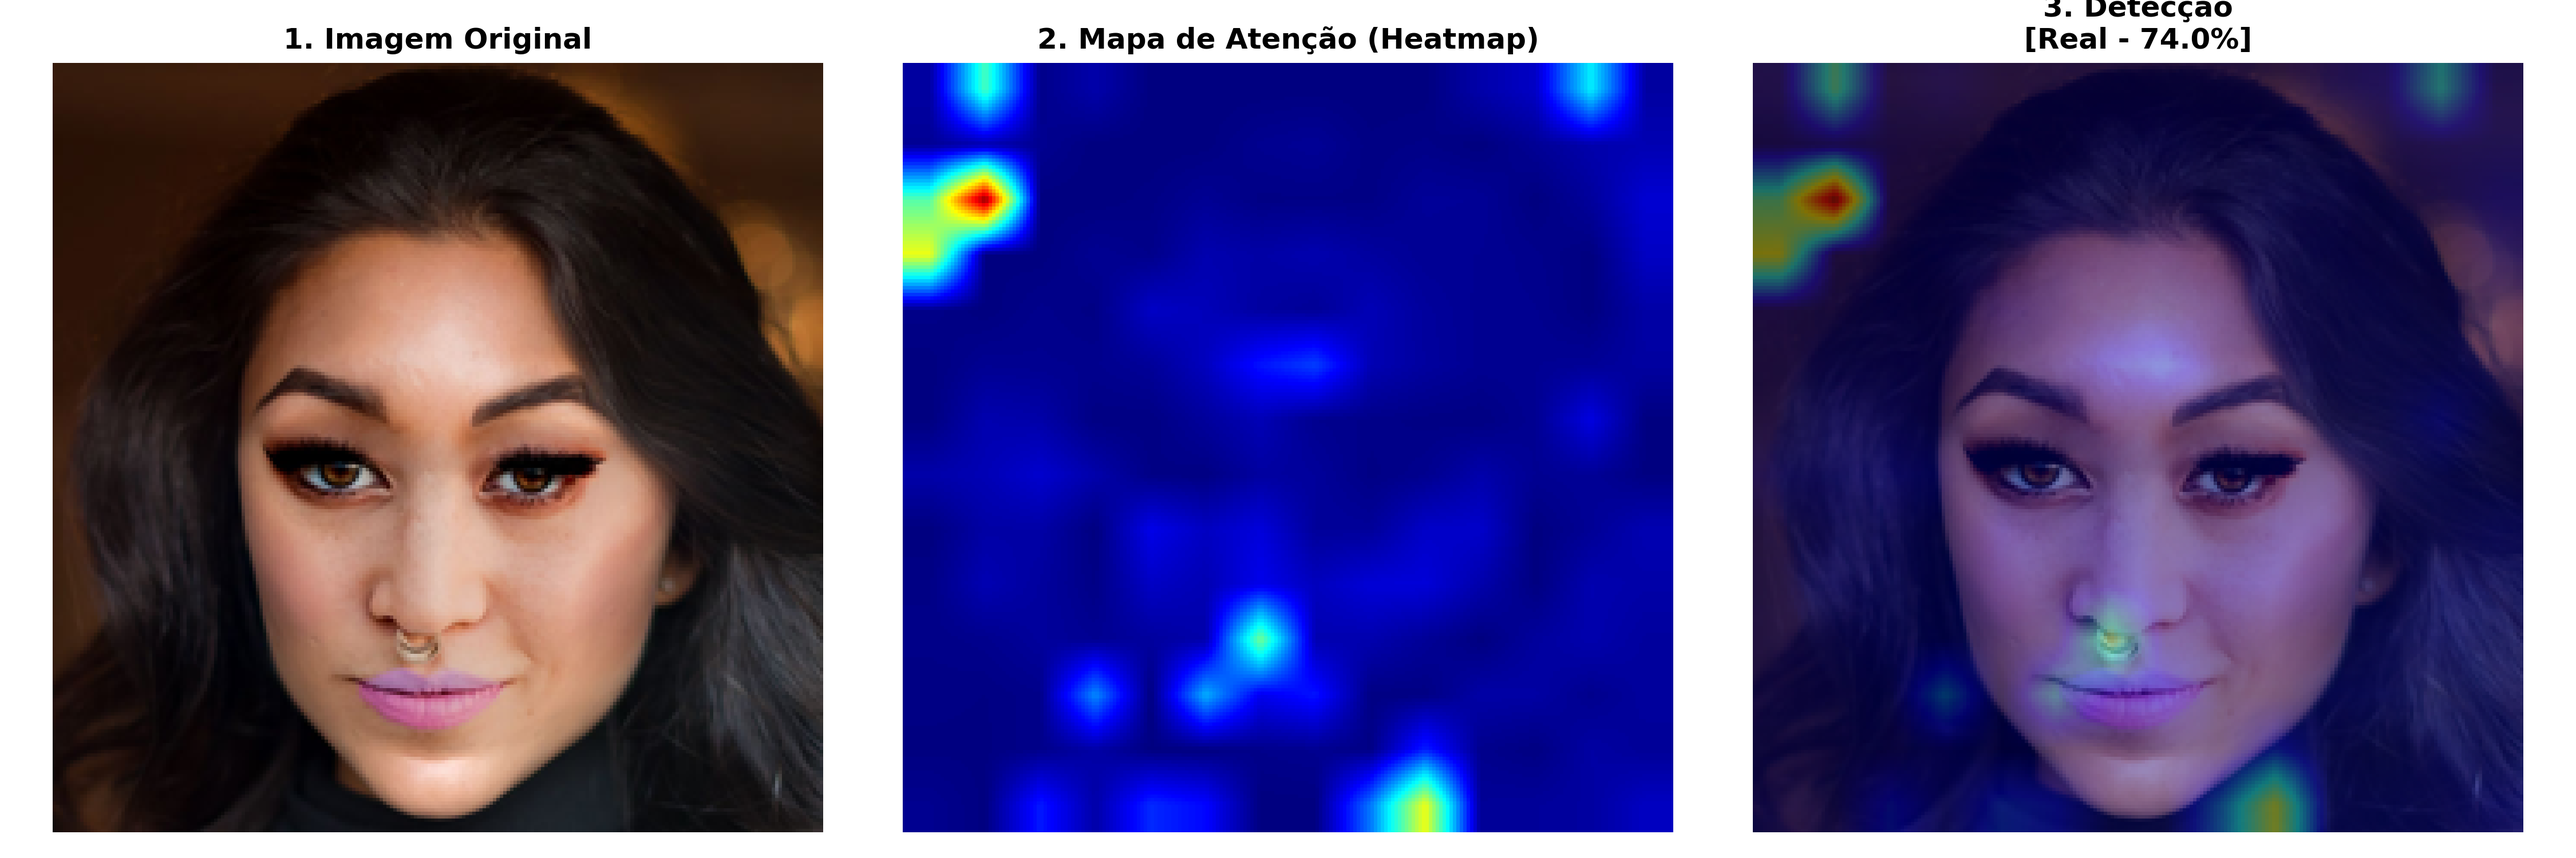
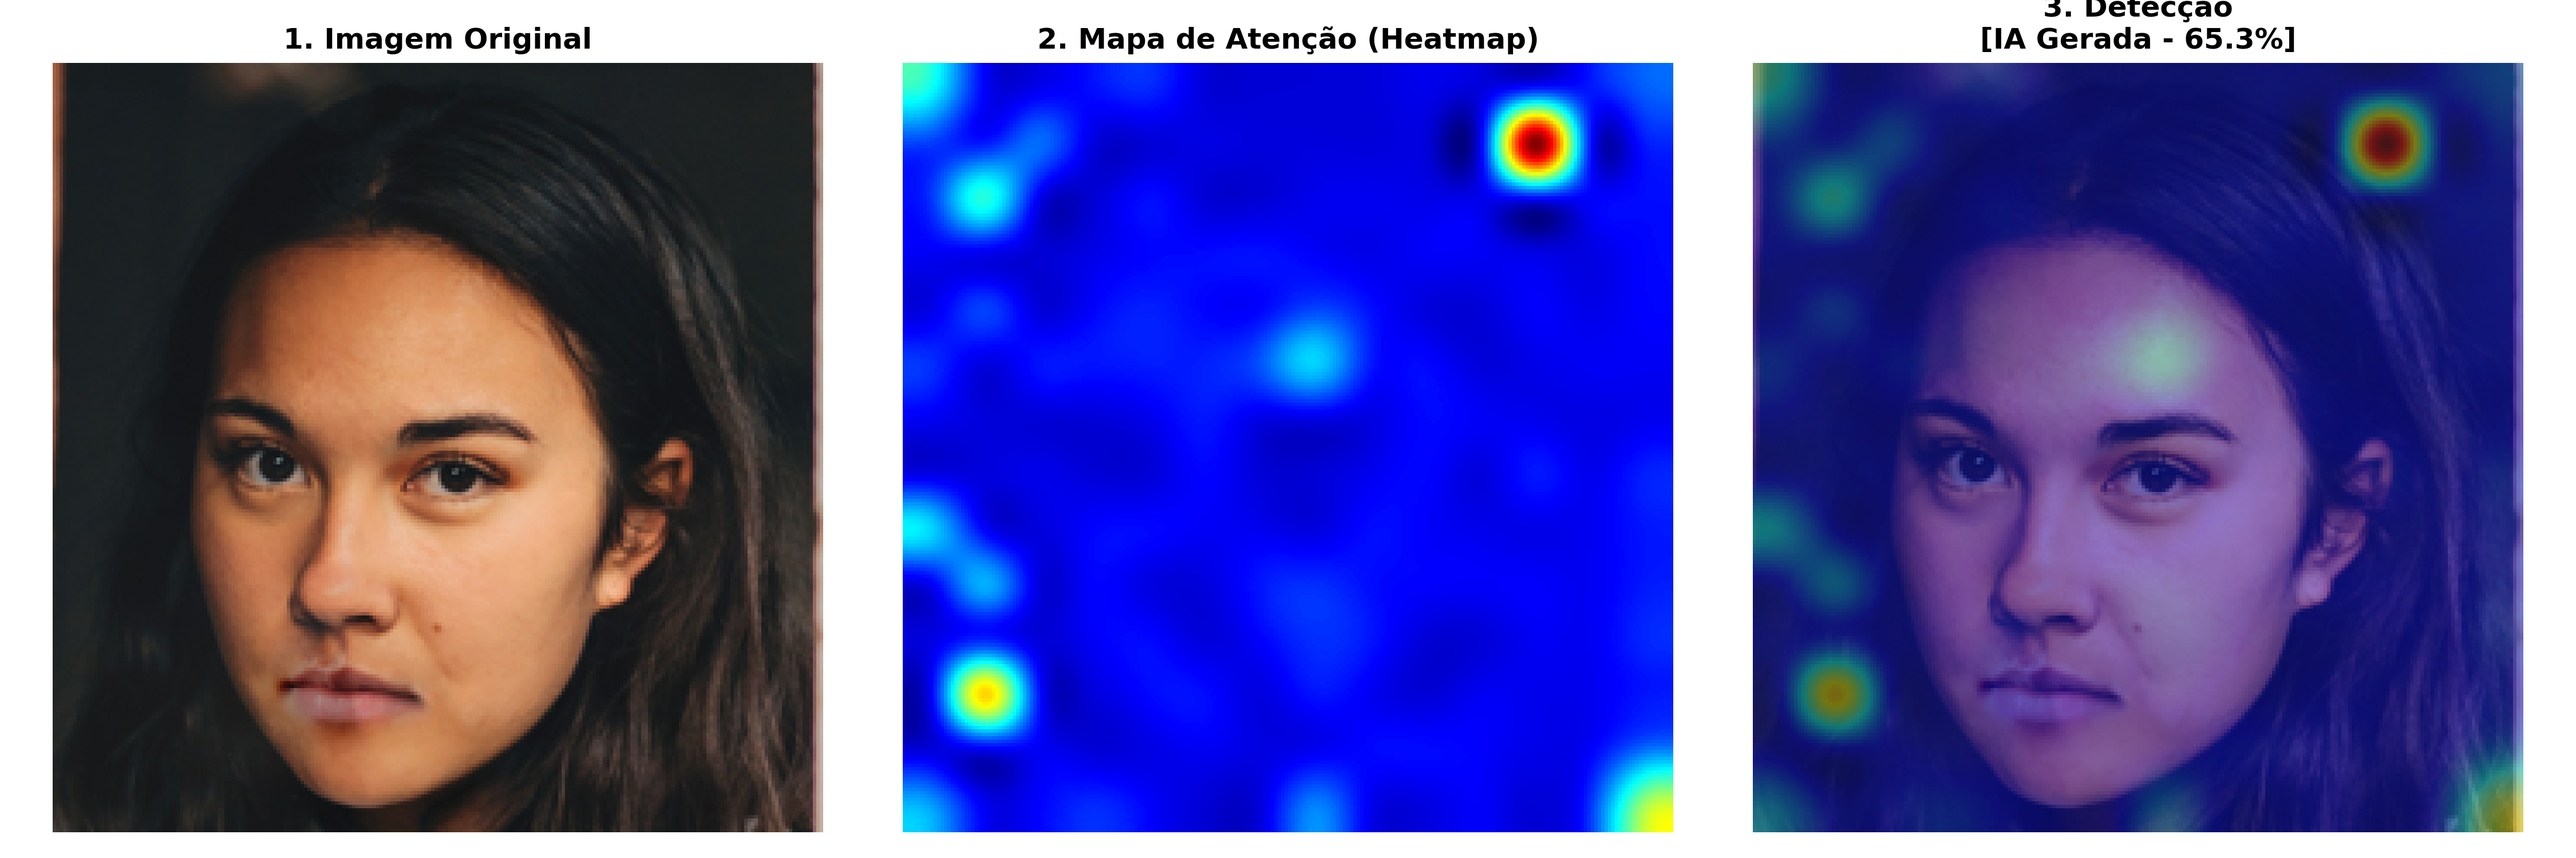
Mais atts

diff --git a/models/denseNet121.py b/models/denseNet121.py
@@ -7,20 +7,19 @@ from sklearn.metrics import f1_score, precision_score, recall_score
 import matplotlib.pyplot as plt 
 import os
 
-
 # ==========================================
 # 0. AJEITANDO O PATH DO DATASET
 # ==========================================
 BASE_DIR = os.path.dirname(os.path.abspath(__file__))
-DATASET_PATH = os.path.join(BASE_DIR, '../dataset')  # Pasta com subpastas por classe
+DATASET_PATH = os.path.join(BASE_DIR, '../dataset')
 
 # ==========================================
 # 1. CONFIGURAÇÕES E HIPERPARAMETROS
 # ==========================================
 BATCH_SIZE = 32
-LEARNING_RATE = 0.0001
-EPOCHS = 100
-NUM_CLASSES = 2  # Altere para o seu número de categorias
+LEARNING_RATE = 1e-4
+EPOCHS = 30  # Com transfer learning, geralmente convergem mais rápido
+NUM_CLASSES = 2
 DEVICE = torch.device("cuda" if torch.cuda.is_available() else "cpu")
 
 print(f"Executando em: {DEVICE}")
@@ -28,12 +27,12 @@ print(f"Executando em: {DEVICE}")
 # ==========================================
 # 2. PREPARAÇÃO DOS DADOS (DATA AUGMENTATION)
 # ==========================================
-# Como você vai treinar do zero, o Augmentation é vital para evitar overfitting
 data_transforms = {
     'train': transforms.Compose([
         transforms.Resize((224, 224)),
         transforms.RandomHorizontalFlip(),
         transforms.RandomRotation(15),
+        transforms.ColorJitter(brightness=0.2, contrast=0.2),
         transforms.ToTensor(),
         transforms.Normalize([0.485, 0.456, 0.406], [0.229, 0.224, 0.225])
     ]),
@@ -44,26 +43,32 @@ data_transforms = {
     ]),
 }
 
-# Carregando os datasets
-# Espera-se que dentro de DATASET_PATH existam as pastas 'train' e 'test'
 image_datasets = {x: datasets.ImageFolder(os.path.join(DATASET_PATH, x), data_transforms[x])
                   for x in ['train', 'test']}
 
-dataloaders = {x: DataLoader(image_datasets[x], batch_size=BATCH_SIZE, shuffle=True, num_workers=4)
+dataloaders = {x: DataLoader(image_datasets[x], batch_size=BATCH_SIZE, shuffle=True, num_workers=2)
               for x in ['train', 'test']}
 
 dataset_sizes = {x: len(image_datasets[x]) for x in ['train', 'test']}
 
 # ==========================================
-# 3. DEFINIÇÃO DA DENSENET-121 DO ZERO
+# 3. DEFINIÇÃO DA DENSENET-121 COM TRANSFER LEARNING
 # ==========================================
 def build_model(num_classes):
-    # weights=None garante que não usaremos o modelo pré-treinado
+    # Carregando pesos oficiais pré-treinados do ImageNet
     model = models.densenet121(weights=models.DenseNet121_Weights.DEFAULT)
     
-    # Ajustando a última camada (classifier)
+    # CONGELAR AS CAMADAS DE EXTRAÇÃO DE CARACTERÍSTICAS
+    # Isso impede que os pesos pré-treinados sejam destruídos no início com poucos dados
+    for param in model.parameters():
+        param.requires_grad = False
+        
+    # Ajustando a última camada (classifier) permitindo gradiente apenas nela
     num_ftrs = model.classifier.in_features
-    model.classifier = nn.Linear(num_ftrs, num_classes)
+    model.classifier = nn.Sequential(
+        nn.Dropout(p=0.5), # Dropout adicionado para evitar overfitting
+        nn.Linear(num_ftrs, num_classes)
+    )
     
     return model.to(DEVICE)
 
@@ -73,13 +78,14 @@ model = build_model(NUM_CLASSES)
 # 4. FUNÇÃO DE PERDA E OTIMIZADOR
 # ==========================================
 criterion = nn.CrossEntropyLoss()
-optimizer = optim.Adam(model.parameters(), lr=LEARNING_RATE)
+
+# Otimizamos apenas os parâmetros da camada classificadora final
+optimizer = optim.Adam(model.classifier.parameters(), lr=LEARNING_RATE)
 
 # ==========================================
-# 5. LOOP DE TREINAMENTO (COM F1, PRECISION E RECALL)
+# 5. LOOP DE TREINAMENTO
 # ==========================================
 def train_model(model, criterion, optimizer, num_epochs=25):
-    # Dicionário expandido para guardar todas as métricas
     history = {
         'train_loss': [], 'test_loss': [], 
         'train_acc': [], 'test_acc': [],
@@ -87,6 +93,8 @@ def train_model(model, criterion, optimizer, num_epochs=25):
         'train_prec': [], 'test_prec': [],
         'train_rec': [], 'test_rec': []
     }
+
+    best_acc = 0.0
 
     for epoch in range(num_epochs):
         print(f'\nÉpoca {epoch + 1}/{num_epochs}')
@@ -101,7 +109,6 @@ def train_model(model, criterion, optimizer, num_epochs=25):
             running_loss = 0.0
             running_corrects = 0
             
-            # Listas para guardar as previsões e gabaritos da época inteira
             all_preds = []
             all_labels = []
 
@@ -123,22 +130,18 @@ def train_model(model, criterion, optimizer, num_epochs=25):
                 running_loss += loss.item() * inputs.size(0)
                 running_corrects += torch.sum(preds == labels.data)
                 
-                # Salvando os resultados para o scikit-learn (movendo para CPU)
                 all_preds.extend(preds.cpu().numpy())
                 all_labels.extend(labels.cpu().numpy())
 
-            # Cálculos das métricas
             epoch_loss = running_loss / dataset_sizes[phase]
             epoch_acc = (running_corrects.double() / dataset_sizes[phase]).item()
             
-            # Calculando F1, Precision e Recall (usando macro para balancear as classes)
             epoch_f1 = f1_score(all_labels, all_preds, average='macro', zero_division=0)
             epoch_prec = precision_score(all_labels, all_preds, average='macro', zero_division=0)
             epoch_rec = recall_score(all_labels, all_preds, average='macro', zero_division=0)
 
             print(f'{phase.capitalize()} Loss: {epoch_loss:.4f} Acc: {epoch_acc:.4f} | F1: {epoch_f1:.4f} | Prec: {epoch_prec:.4f} | Rec: {epoch_rec:.4f}')
 
-            # Alimentando o histórico
             prefix = 'train_' if phase == 'train' else 'test_'
             history[f'{prefix}loss'].append(epoch_loss)
             history[f'{prefix}acc'].append(epoch_acc)
@@ -149,67 +152,11 @@ def train_model(model, criterion, optimizer, num_epochs=25):
     return model, history
 
 # ==========================================
-# 6. PAINEL DE GRÁFICOS COMPLETO
+# 6. EXECUÇÃO
 # ==========================================
-def plot_history(history):
-    epochs = range(1, len(history['train_loss']) + 1)
-    
-    # Criando um painel 2x2 para acomodar 4 gráficos
-    plt.figure(figsize=(16, 10))
-    
-    # Gráfico 1: Loss
-    plt.subplot(2, 2, 1)
-    plt.plot(epochs, history['train_loss'], label='Treino', marker='o', color='blue')
-    plt.plot(epochs, history['test_loss'], label='Teste', marker='o', color='red')
-    plt.title('Evolução da Perda (Loss)')
-    plt.xlabel('Épocas')
-    plt.ylabel('Loss')
-    plt.legend()
-    plt.grid(True, linestyle='--', alpha=0.7)
-    
-    # Gráfico 2: Acurácia
-    plt.subplot(2, 2, 2)
-    plt.plot(epochs, history['train_acc'], label='Treino', marker='o', color='blue')
-    plt.plot(epochs, history['test_acc'], label='Teste', marker='o', color='red')
-    plt.title('Evolução da Acurácia')
-    plt.xlabel('Épocas')
-    plt.ylabel('Acurácia')
-    plt.legend()
-    plt.grid(True, linestyle='--', alpha=0.7)
-    
-    # Gráfico 3: F1-Score
-    plt.subplot(2, 2, 3)
-    plt.plot(epochs, history['train_f1'], label='Treino', marker='o', color='blue')
-    plt.plot(epochs, history['test_f1'], label='Teste', marker='o', color='red')
-    plt.title('Evolução do F1-Score (Macro)')
-    plt.xlabel('Épocas')
-    plt.ylabel('F1-Score')
-    plt.legend()
-    plt.grid(True, linestyle='--', alpha=0.7)
-    
-    # Gráfico 4: Precisão e Recall (Apenas de Teste para não poluir)
-    plt.subplot(2, 2, 4)
-    plt.plot(epochs, history['test_prec'], label='Precisão (Teste)', marker='s', color='purple')
-    plt.plot(epochs, history['test_rec'], label='Recall (Teste)', marker='^', color='orange')
-    plt.title('Precisão vs Recall (Validação)')
-    plt.xlabel('Épocas')
-    plt.ylabel('Métrica')
-    plt.legend()
-    plt.grid(True, linestyle='--', alpha=0.7)
-    
-    plt.tight_layout()
-    plt.savefig('grafico_treinamento_completo_denseNet121.png', dpi=300)
-    print("\nGráfico detalhado salvo como 'grafico_treinamento_densenet121.png'!")
-    plt.show()
-
-# Iniciar o treino
 if __name__ == '__main__':
-    # Agora a função retorna o modelo e o histórico
     model_trained, training_history = train_model(model, criterion, optimizer, num_epochs=EPOCHS)
     
-    # Salvar o modelo final
+    # Salvar o novo modelo treinado com transfer learning
     torch.save(model_trained.state_dict(), 'densenet121_custom.pth')
-    print("Modelo salvo com sucesso!")
-    
-    # Gerar e exibir os gráficos
-    plot_history(training_history)
+    print("Novo modelo com Transfer Learning salvo com sucesso como 'densenet121_custom.pth'!")

diff --git a/models/geradorImagemDense.py b/models/geradorImagemDense.py
@@ -1,0 +1,153 @@
+import torch
+import torch.nn as nn
+from torchvision import transforms, models
+from PIL import Image
+import matplotlib.pyplot as plt
+import numpy as np
+import cv2
+import os
+
+# ==========================================
+# CONFIGURAÇÕES BÁSICAS
+# ==========================================
+DEVICE = torch.device("cuda" if torch.cuda.is_available() else "cpu")
+CLASS_NAMES = ['Real', 'IA Gerada']  # Ordem exata das classes no seu DatasetFolder
+MODEL_PATH = 'densenet121_custom.pth'
+NUM_CLASSES = 2
+
+# Variáveis globais para capturar ativações e gradientes do Grad-CAM
+activated_features = None
+gradients = None
+
+def save_activation(module, input, output):
+    """Hook para capturar a saída da última camada convolucional interna."""
+    global activated_features
+    activated_features = output.detach()
+
+def save_gradient(module, grad_input, grad_output):
+    """Hook para capturar os gradientes da última camada convolucional interna."""
+    global gradients
+    gradients = grad_output[0].detach()
+
+def get_densenet_model_with_hooks(num_classes):
+    """Carrega a DenseNet-121 com a estrutura de Transfer Learning e Dropout."""
+    model = models.densenet121(weights=None)
+    
+    
+    # CORREÇÃO: Usar a mesma estrutura com Dropout usada no novo treinamento
+    num_ftrs = model.classifier.in_features
+    model.classifier = nn.Sequential(
+        nn.Dropout(p=0.5),
+        nn.Linear(num_ftrs, num_classes)
+    )
+    
+    if os.path.exists(MODEL_PATH):
+        model.load_state_dict(torch.load(MODEL_PATH, map_location=DEVICE))
+        print(f"Modelo carregado com sucesso de '{MODEL_PATH}'.")
+    else:
+        print(f"Aviso: Arquivo '{MODEL_PATH}' não encontrado.")
+        
+    model.to(DEVICE)
+    model.eval()
+    
+    # Ponto de Hook para o Grad-CAM
+    target_layer = model.features.denseblock4.denselayer16
+    target_layer.register_forward_hook(save_activation)
+    target_layer.register_full_backward_hook(save_gradient)
+    
+    return model
+
+def generate_gradcam(image_path, model):
+    """Executa a inferência e calcula o mapa de calor Grad-CAM sem avisos de backward."""
+    global activated_features, gradients
+    
+    transform = transforms.Compose([
+        transforms.Resize((224, 224)),
+        transforms.ToTensor(),
+        transforms.Normalize([0.485, 0.456, 0.406], [0.229, 0.224, 0.225])
+    ])
+
+    image_pil = Image.open(image_path).convert('RGB')
+    input_tensor = transform(image_pil).unsqueeze(0).to(DEVICE)
+    
+    # CORREÇÃO DO WARNING: Forçar o tensor de entrada a exigir gradientes
+    input_tensor.requires_grad_(True)
+
+    # 1. Forward Pass
+    model.zero_grad()
+    output = model(input_tensor)
+    
+    probabilities = torch.nn.functional.softmax(output, dim=1)
+    confidence, preds = torch.max(probabilities, 1)
+    
+    predicted_class = CLASS_NAMES[preds.item()]
+    conf_percentage = confidence.item() * 100
+
+    print(f"Predição: {predicted_class} ({conf_percentage:.2f}% de confiança)")
+
+    # 2. Backward Pass para a classe predita
+    class_idx = preds.item()
+    score = output[0, class_idx]
+    score.backward()
+
+    # 3. Processamento espacial do Grad-CAM
+    if gradients is not None and activated_features is not None:
+        pooled_gradients = torch.mean(gradients, dim=[0, 2, 3])
+        activations = activated_features.squeeze(0)
+        
+        for i in range(activations.shape[0]):
+            activations[i, :, :] *= pooled_gradients[i]
+            
+        heatmap = torch.mean(activations, dim=0).cpu().numpy()
+        heatmap = np.maximum(heatmap, 0) # ReLU
+        
+        if heatmap.max() != 0:
+            heatmap /= heatmap.max()
+    else:
+        heatmap = np.ones((7, 7), dtype=np.float32)
+
+    return image_pil, heatmap, predicted_class, conf_percentage
+
+def plot_analysis_panel(image_path, save_path='densenet_heatmap_resultado.png'):
+    """Cria e salva o painel visual comparativo."""
+    model = get_densenet_model_with_hooks(NUM_CLASSES)
+    image_pil, heatmap, pred_class, conf = generate_gradcam(image_path, model)
+    
+    img_resized = image_pil.resize((224, 224))
+    img_np = np.array(img_resized)
+
+    # Redimensionar o heatmap para 224x224 com interpolação suave
+    heatmap_resized = cv2.resize(heatmap, (224, 224))
+    
+    # Gerar o mapa colorido e sobrepor na imagem
+    heatmap_colored = cv2.applyColorMap(np.uint8(255 * heatmap_resized), cv2.COLORMAP_JET)
+    heatmap_colored = cv2.cvtColor(heatmap_colored, cv2.COLOR_BGR2RGB)
+    
+    superimposed = cv2.addWeighted(img_np, 0.6, heatmap_colored, 0.4, 0)
+
+    # Plotar o painel analítico (3 colunas)
+    fig, axes = plt.subplots(1, 3, figsize=(15, 5))
+    
+    axes[0].imshow(img_resized)
+    axes[0].set_title("1. Imagem Original", fontsize=12, fontweight='bold')
+    axes[0].axis('off')
+
+    axes[1].imshow(heatmap_colored)
+    axes[1].set_title("2. Mapa Grad-CAM (Refinado)", fontsize=12, fontweight='bold')
+    axes[1].axis('off')
+
+    axes[2].imshow(superimposed)
+    axes[2].set_title(f"3. Detecção\n[{pred_class} - {conf:.1f}%]", fontsize=12, fontweight='bold')
+    axes[2].axis('off')
+
+    plt.tight_layout()
+    plt.savefig(save_path, dpi=300)
+    print(f"Painel Grad-CAM salvo com sucesso em '{save_path}'!")
+    plt.show()
+
+# ==========================================
+# EXECUÇÃO
+# ==========================================
+if __name__ == '__main__':
+    caminho_da_imagem = 'test_image.jpg'  # Altere para o caminho da sua imagem de teste
+    plot_analysis_panel(caminho_da_imagem)

diff --git a/models/geradorImageVit.py b/models/geradorImageVit.py
@@ -130,8 +130,15 @@ def plot_analysis_panel(image_path, save_path='heatmap_resultado.png'):
     img_resized = image_pil.resize((224, 224))
     img_np = np.array(img_resized)
 
-    mask_resized = cv2.resize(mask, (224, 224))
-    
+    # Em vez de um redimensionamento simples, usamos interpolação cúbica para suavizar
+    mask_resized = cv2.resize(mask, (224, 224), interpolation=cv2.INTER_CUBIC)
+
+    # Aplicar um leve desfoque gaussiano para eliminar o aspecto pixelado/quadriculado
+    mask_resized = cv2.GaussianBlur(mask_resized, (15, 15), 0)
+
+    # Normalizar novamente após o filtro
+    mask_resized = (mask_resized - mask_resized.min()) / (mask_resized.max() - mask_resized.min() + 1e-8)  
+
     # Criar o mapa de calor colorido (colormap JET)
     heatmap = cv2.applyColorMap(np.uint8(255 * mask_resized), cv2.COLORMAP_JET)
     heatmap = cv2.cvtColor(heatmap, cv2.COLOR_BGR2RGB)
